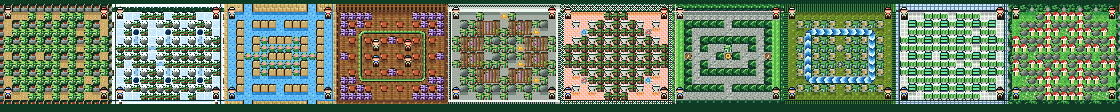
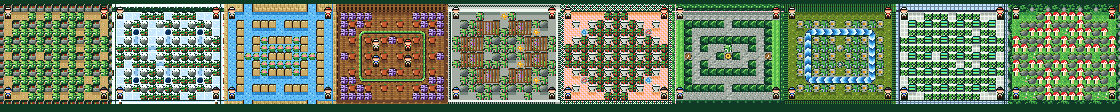
sb2: Garden Edition — the menus' lettering redrawn in a chunky garden font (gold labels, mint / rose / leaf values, white digits, cream mode items, infinity and star cells), lettuce trays

Changed region(s): [[0.7812, 0.1071, 0.9062, 0.9107]]

diff --git a/tools/sb2/garden/src/menufont.py b/tools/sb2/garden/src/menufont.py
@@ -1,0 +1,202 @@
+"""Garden Edition — the menus' lettering, redrawn: a chunky 2-px-stroke garden font (7 x 10
+letters, outlined, shaded top-light to bottom-dark) written over the original's text cells
+(the same tile numbers, so the menus' logic is unchanged).
+
+Styles (palette rows of the menu screens, see menus.py): gold labels (row 4: 13 / 12 / 11),
+mint values (row 2: 5 / 4 / 3 / 2), rose values (row 2: 9 / 8 / 7 / 6), leaf values (row 2:
+13 / 12 / 10), white digits (row 4: 15 / 10 / 9), and the mode screen's cut-out letters
+(row 3: cream letters; the original's cut-outs showed BG2's bands, solid reads better).
+"""
+import numpy as np
+from common import *  # noqa: F401,F403
+
+G = {
+    'A': [".#####.", "##...##", "##...##", "##...##", "#######", "#######", "##...##", "##...##", "##...##", "##...##"],
+    'B': ["######.", "##...##", "##...##", "##..##.", "######.", "##...##", "##...##", "##...##", "##...##", "######."],
+    'C': [".#####.", "##...##", "##.....", "##.....", "##.....", "##.....", "##.....", "##.....", "##...##", ".#####."],
+    'D': ["#####..", "##..##.", "##...##", "##...##", "##...##", "##...##", "##...##", "##...##", "##..##.", "#####.."],
+    'E': ["#######", "##.....", "##.....", "##.....", "######.", "##.....", "##.....", "##.....", "##.....", "#######"],
+    'G': [".#####.", "##...##", "##.....", "##.....", "##.####", "##...##", "##...##", "##...##", "##...##", ".######"],
+    'I': ["######", "..##..", "..##..", "..##..", "..##..", "..##..", "..##..", "..##..", "..##..", "######"],
+    'L': ["##.....", "##.....", "##.....", "##.....", "##.....", "##.....", "##.....", "##.....", "##.....", "#######"],
+    'M': ["##...##", "###.###", "#######", "##.#.##", "##.#.##", "##...##", "##...##", "##...##", "##...##", "##...##"],
+    'N': ["##...##", "###..##", "####.##", "##.####", "##..###", "##...##", "##...##", "##...##", "##...##", "##...##"],
+    'O': [".#####.", "##...##", "##...##", "##...##", "##...##", "##...##", "##...##", "##...##", "##...##", ".#####."],
+    'P': ["######.", "##...##", "##...##", "##...##", "######.", "##.....", "##.....", "##.....", "##.....", "##....."],
+    'R': ["######.", "##...##", "##...##", "##...##", "######.", "##.##..", "##..##.", "##...##", "##...##", "##...##"],
+    'S': [".#####.", "##...##", "##.....", "###....", ".#####.", "....###", ".....##", ".....##", "##...##", ".#####."],
+    'T': ["######", "..##..", "..##..", "..##..", "..##..", "..##..", "..##..", "..##..", "..##..", "..##.."],
+    'V': ["##...##", "##...##", "##...##", "##...##", "##...##", "##...##", ".##.##.", ".##.##.", "..###..", "...#..."],
+    'Y': ["##..##", "##..##", "##..##", ".####.", "..##..", "..##..", "..##..", "..##..", "..##..", "..##.."],
+    'F': ["#######", "##.....", "##.....", "##.....", "######.", "##.....", "##.....", "##.....", "##.....", "##....."],
+    'K': ["##...##", "##..##.", "##.##..", "####...", "###....", "####...", "##.##..", "##..##.", "##...##", "##...##"],
+    'H': ["##...##", "##...##", "##...##", "##...##", "#######", "#######", "##...##", "##...##", "##...##", "##...##"],
+    'W': ["##...##", "##...##", "##...##", "##...##", "##.#.##", "##.#.##", "#######", "###.###", "##...##", "#.....#"],
+    'U': ["##...##", "##...##", "##...##", "##...##", "##...##", "##...##", "##...##", "##...##", "##...##", ".#####."],
+    '-': ["....", "....", "....", "....", "####", "####", "....", "....", "....", "...."],
+    ' ': ["...", "...", "...", "...", "...", "...", "...", "...", "...", "..."],
+    '0': [".####.", "##..##", "##..##", "##.###", "##.###", "###.##", "###.##", "##..##", "##..##", ".####."],
+    '1': ["..##..", ".###..", "####..", "..##..", "..##..", "..##..", "..##..", "..##..", "..##..", "######"],
+    '2': [".####.", "##..##", "....##", "....##", "...##.", "..##..", ".##...", "##....", "##....", "######"],
+    '3': [".####.", "##..##", "....##", "....##", "..###.", "....##", "....##", "....##", "##..##", ".####."],
+    '4': ["...##.", "..###.", ".####.", "##.##.", "##.##.", "######", "...##.", "...##.", "...##.", "...##."],
+    '5': ["######", "##....", "##....", "#####.", "....##", "....##", "....##", "....##", "##..##", ".####."],
+    '6': [".####.", "##..##", "##....", "##....", "#####.", "##..##", "##..##", "##..##", "##..##", ".####."],
+    '7': ["######", "....##", "....##", "...##.", "...##.", "..##..", "..##..", "..##..", "..##..", "..##.."],
+    '8': [".####.", "##..##", "##..##", "##..##", ".####.", "##..##", "##..##", "##..##", "##..##", ".####."],
+    '9': [".####.", "##..##", "##..##", "##..##", "##..##", ".#####", "....##", "....##", "##..##", ".####."],
+    ':': ["..", "..", "##", "##", "..", "..", "##", "##", "..", ".."],
+}
+
+def _tall(g):
+    """10-row glyph -> 12 rows (rows 2 and 7 doubled): letters as tall as the cells allow"""
+    return g[:3] + [g[2]] + g[3:8] + [g[7]] + g[8:]
+
+
+G = {k: _tall(v) for k, v in G.items()}
+
+STYLES = {   # body ramp: top rows .. bottom rows (palette indices), outline, background
+    'gold': {'ramp': [13, 13, 13, 13, 12, 12, 12, 12, 11, 11, 11, 11], 'out': 1, 'bg': 14},
+    'digit': {'ramp': [15, 15, 15, 15, 10, 10, 10, 10, 9, 9, 9, 9], 'out': 1, 'bg': 14},
+    'mint': {'ramp': [5, 5, 5, 4, 4, 4, 4, 3, 3, 3, 2, 2], 'out': 1, 'bg': 11},
+    'rose': {'ramp': [9, 9, 9, 8, 8, 8, 8, 7, 7, 7, 6, 6], 'out': 1, 'bg': 11},
+    'leaf': {'ramp': [13, 13, 13, 13, 12, 12, 12, 12, 10, 10, 10, 10], 'out': 1, 'bg': 11},
+    'cream': {'ramp': [12, 12, 12, 12, 8, 8, 8, 8, 7, 7, 7, 7], 'out': 1, 'bg': 13},
+}
+
+
+def text_strip(text, ncells, style, align='center', gap=1, y0=2):
+    """the text rendered into ncells 16x16 tiles (palette indices), centred"""
+    st = STYLES[style]
+    W = ncells * 16
+    body = np.zeros((16, W), bool)
+    glyphs = [G[ch] for ch in text]
+    tw = sum(len(g[0]) for g in glyphs) + gap * (len(glyphs) - 1)
+    x = (W - tw) // 2 if align == 'center' else (2 if align == 'left' else W - tw - 2)
+    ramp_row = np.full((16, W), -1, np.int32)
+    for g in glyphs:
+        for gy, row in enumerate(g):
+            for gx, c in enumerate(row):
+                if c == '#' and 0 <= x + gx < W:
+                    body[y0 + gy, x + gx] = True
+                    ramp_row[y0 + gy, x + gx] = gy
+        x += len(g[0]) + gap
+    img = np.full((16, W), st['bg'], np.int32)
+    for y in range(16):
+        for x in range(W):
+            if body[y, x]:
+                img[y, x] = st['ramp'][ramp_row[y, x]]
+            elif any(0 <= y + dy < 16 and 0 <= x + dx < W and body[y + dy, x + dx]
+                     for dy in (-1, 0, 1) for dx in (-1, 0, 1)):
+                img[y, x] = st['out']
+    # a drop shadow (down-right) in the outline colour for the solid styles
+    if True:
+        sh = img.copy()
+        for y in range(15):
+            for x in range(W - 1):
+                if img[y, x] == st['out'] and img[y + 1, x + 1] == st['bg']:
+                    sh[y + 1, x + 1] = st['out']
+        img = sh
+    return [img[:, k * 16:(k + 1) * 16] for k in range(ncells)]
+
+
+def infinity(style='digit'):
+    """the TIME value 'unlimited' across 3 cells: an infinity loop"""
+    st = STYLES[style]
+    W = 48
+    body = np.zeros((16, W), bool)
+    import math
+    for y in range(16):
+        for x in range(W):
+            for cx in (18.5, 29.5):
+                d = math.hypot((x + 0.5 - cx) / 1.15, y + 0.5 - 8)
+                if 2.6 <= d <= 4.9:
+                    body[y, x] = True
+    img = np.full((16, W), st['bg'], np.int32)
+    for y in range(16):
+        for x in range(W):
+            if body[y, x]:
+                img[y, x] = st['ramp'][min(11, max(0, (y - 2)))]
+            elif any(0 <= y + dy < 16 and 0 <= x + dx < W and body[y + dy, x + dx] for dy in (-1, 0, 1) for dx in (-1, 0, 1)):
+                img[y, x] = st['out']
+    return [img[:, k * 16:(k + 1) * 16] for k in range(3)]
+
+
+def star(style='digit'):
+    import math
+    st = STYLES[style]
+    pts = [(7.5 + (6.6 if k % 2 == 0 else 2.7) * math.cos(-math.pi / 2 + k * math.pi / 5),
+            8.4 + (6.6 if k % 2 == 0 else 2.7) * math.sin(-math.pi / 2 + k * math.pi / 5)) for k in range(10)]
+
+    def inside(x, y):
+        c = False
+        for i in range(10):
+            (x1, y1), (x2, y2) = pts[i], pts[(i + 1) % 10]
+            if (y1 > y) != (y2 > y) and x < x1 + (y - y1) * (x2 - x1) / (y2 - y1):
+                c = not c
+        return c
+    img = np.full((16, 16), st['bg'], np.int32)
+    body = np.array([[inside(x + 0.5, y + 0.5) for x in range(16)] for y in range(16)])
+    for y in range(16):
+        for x in range(16):
+            if body[y, x]:
+                img[y, x] = st['ramp'][min(11, max(0, y - 2))]
+            elif any(0 <= y + dy < 16 and 0 <= x + dx < 16 and body[y + dy, x + dx] for dy in (-1, 0, 1) for dx in (-1, 0, 1)):
+                img[y, x] = st['out']
+    return img
+
+
+# (tile numbers, text, style) — the original's text cells (tile = map entry & 0x3FF)
+LABELS = [
+    ([0x128, 0x12A, 0x12C, 0x12E, 0x140], 'PLAYER', 'gold', 'left'),
+    ([0x142, 0x144, 0x146, 0x148, 0x14A, 0x14C, 0x14E], 'COM LEVEL', 'gold', 'center'),
+    ([0x1E6, 0x1E8, 0x1EA, 0x1EC, 0x1EE], 'BATTLE', 'gold', 'center'),
+    ([0x1A6, 0x1A8, 0x1AA, 0x1AC], 'TIME', 'gold', 'center'),
+    ([0x1AE, 0x1C0, 0x1C2, 0x1C4, 0x1C6, 0x1C8, 0x1CA], 'G-BOMBER', 'gold', 'center'),
+    ([0x1CC, 0x1CE, 0x1E0, 0x1E2, 0x1E4], 'STAGE', 'gold', 'center'),
+    ([0x100, 0x102, 0x104], 'MAN', 'mint', 'center'),
+    ([0x106, 0x108, 0x10A], 'COM', 'rose', 'center'),
+    ([0x18A, 0x18C, 0x18E], 'ON', 'mint', 'center'),
+    ([0x1A0, 0x1A2, 0x1A4], 'OFF', 'rose', 'center'),
+]
+SINGLES = [(0x120, '1', 'gold'), (0x122, '2', 'gold'), (0x124, '3', 'gold'), (0x126, '4', 'gold'),
+           (0x160, '1', 'digit'), (0x162, '2', 'digit'), (0x164, '3', 'digit'), (0x166, '4', 'digit'),
+           (0x168, '5', 'digit'), (0x16A, '6', 'digit'), (0x16C, '7', 'digit'), (0x16E, '8', 'digit'),
+           (0x180, '9', 'digit'), (0x182, '10', 'digit'), (0x248, '00', 'digit'), (0x246, ':', 'digit')]
+
+
+def cells(words):
+    """{tile: 16x16 palette-index image} for every text cell; words = menu.json words
+    (the composed TALL / CLASSIC / GARDEN / DIGIT0 / STAR)"""
+    out = {}
+    for tiles, text, style, align in LABELS:
+        for t, img in zip(tiles, text_strip(text, len(tiles), style, align)):
+            out[t] = img
+    # players' OFF: three cells, the last two the same tile (0x10E twice): O, F, F
+    out[0x10C] = text_strip('O', 1, 'leaf', 'center')[0]
+    out[0x10E] = text_strip('F', 1, 'leaf', 'center')[0]
+    for t, text, style in SINGLES:
+        gap = 0 if len(text) > 1 else 1
+        out[t] = text_strip(text, 1, style, 'center', gap=gap)[0]
+    for t, img in zip([0x300, 0x302, 0x304], infinity()):
+        out[t] = img
+    for name, text in (('TALL', 'TALL'), ('CLASSIC', 'CLASSIC'), ('GARDEN', 'GARDEN')):
+        ents = words.get(name)
+        if ents:
+            for e, img in zip(ents, text_strip(text, len(ents), 'gold', 'center')):
+                out[e & 0x3FF] = img
+    if words.get('DIGIT0'):
+        out[words['DIGIT0'][0] & 0x3FF] = text_strip('0', 1, 'digit')[0]
+    if words.get('STAR'):
+        out[words['STAR'][0] & 0x3FF] = star()
+    # the mode screen: cut-out letters (row 3): SINGLE MATCH / TAG MATCH
+    single = [0x284, 0x286, 0x288, 0x28A, 0x28C, 0x28E, 0x2A0, 0x2A2, 0x2A4]
+    tag = [0x2A6, 0x2A8, 0x2E0]
+    s = text_strip('SINGLE', 5, 'cream', 'center')
+    for t, img in zip(single[:5], s):
+        out[t] = img
+    for t, img in zip(single[5:], text_strip('MATCH', 4, 'cream', 'center')):
+        out[t] = img
+    for t, img in zip(tag, text_strip('TAG', 3, 'cream', 'center')):
+        out[t] = img
+    return out

diff --git a/tools/sb2/garden/src/stages/s09.py b/tools/sb2/garden/src/stages/s09.py
@@ -71,25 +71,26 @@ o22222222222222o
 
 
 def tray(base):
-    t = grid("""
-................
-.oooooooooooooo.
-o55555555555554o
-o5o4o44o4o44o44o
-o5gGlgGlgGlgGl4o
-ogGlgGlgGlgGlgGo
-oGlgGlgGlgGlgGlo
-ogGlgGlgGlgGlgGo
-oGlgGlgGlgGlgGlo
-ogGlgGlgGlgGlgGo
-o4lgGlgGlgGlgG3o
-o44444444444433o
-o33333333333332o
-.oooooooooooooo.
-..oo........oo..
-................
-""", {'o': INK, '5': STONE_5, '4': STONE_4, '3': STONE_3, '2': SLATE_1, 'g': LEAF_4, 'G': LEAF_2, 'l': LEAF_3})
-    return over(base.copy(), t)
+    """a hydroponic tray: a white tray holding four round lettuce heads"""
+    img = base.copy()
+    for y in range(1, 16):
+        for x in range(0, 16):
+            edge = x in (0, 15) or y in (1, 15)
+            img[y, x] = INK if edge else (STONE_5 if y < 3 else STONE_4 if x < 14 else STONE_3)
+    img[1, 0] = img[1, 15] = base[1, 0]
+    for (cx, cy) in ((4.5, 6.0), (11.5, 6.0), (4.5, 11.5), (11.5, 11.5)):
+        for y in range(16):
+            for x in range(16):
+                d = math.hypot(x + 0.5 - cx, y + 0.5 - cy)
+                if d <= 3.4:
+                    ring = int(d * 1.6)
+                    c = [LEAF_2, LEAF_3, LEAF_4, LEAF_4, LEAF_3, INK][min(5, ring)]
+                    if d > 3.0:
+                        c = INK
+                    elif (x + y) % 3 == 0 and ring >= 2:
+                        c = LEAF_2
+                    img[y, x] = c
+    return img
 
 
 def frame(role):

diff --git a/tools/sb2/garden/build.py b/tools/sb2/garden/build.py
@@ -453,7 +453,8 @@ def menu_skin(ov, report):
         img = np.where(img < 0, 0, img)
         for (dy, dx), c in zip(((0, 0), (0, 8), (8, 0), (8, 8)), (t, t + 1, t + 16, t + 17)):
             ov.put('vram.menu', c * 32, encode4(img[dy:dy + 8, dx:dx + 8]))
-    for t, img in {**menus.wall_tiles(), **menus.strip_tiles(), **menus.icons()}.items():
+    import menufont
+    for t, img in {**menus.wall_tiles(), **menus.strip_tiles(), **menus.icons(), **menufont.cells(mj.get('words', {}))}.items():
         tile(t, img)
     for name in ['cgram.menu'] + ['cgram.%02d' % s for s in range(1, 11)]:
         for p, P in menus.BG_PALS.items():
